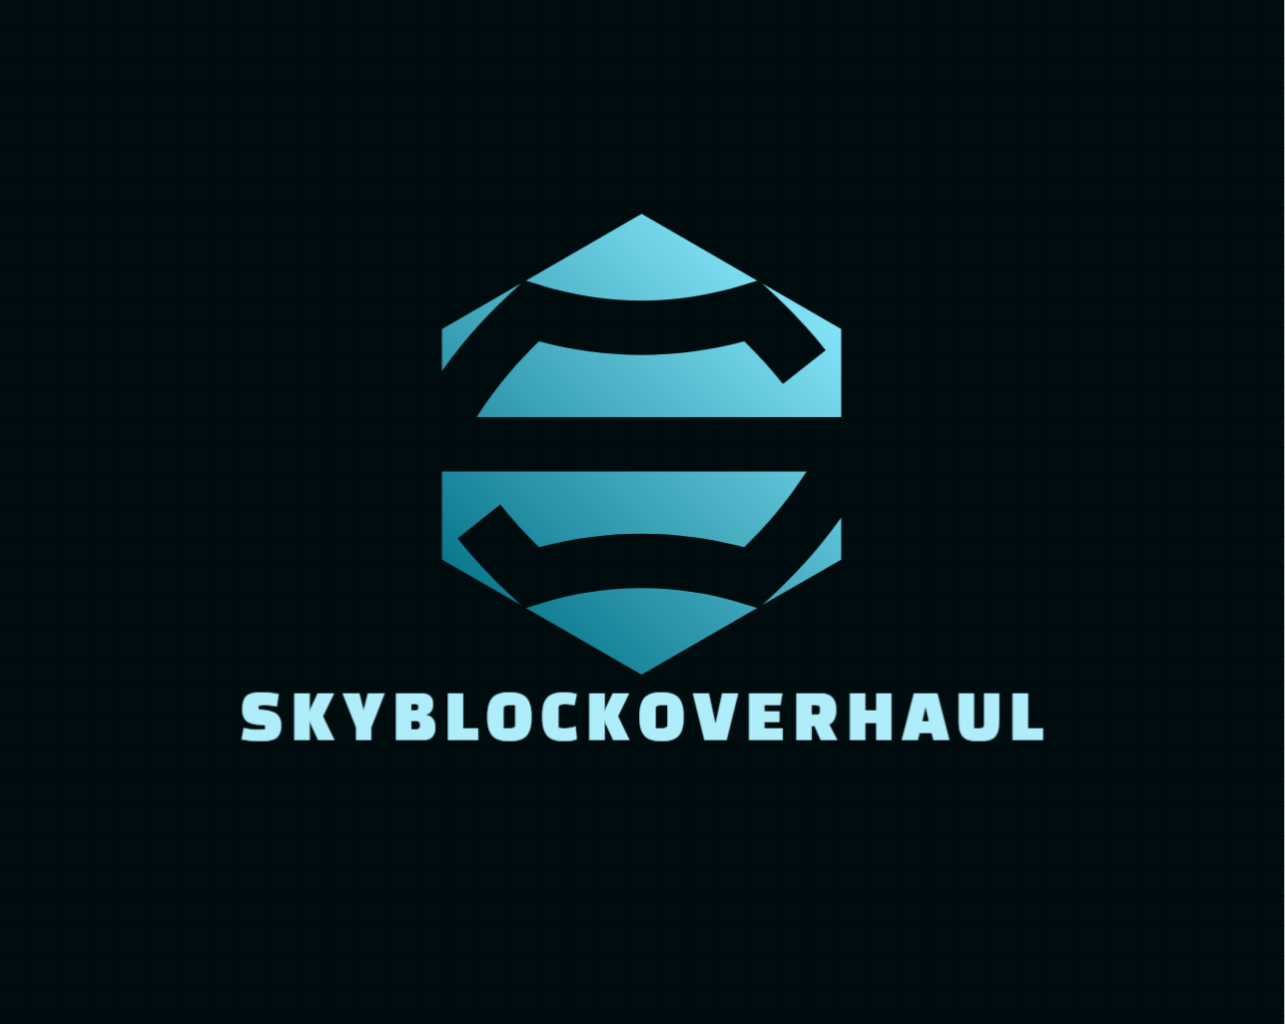
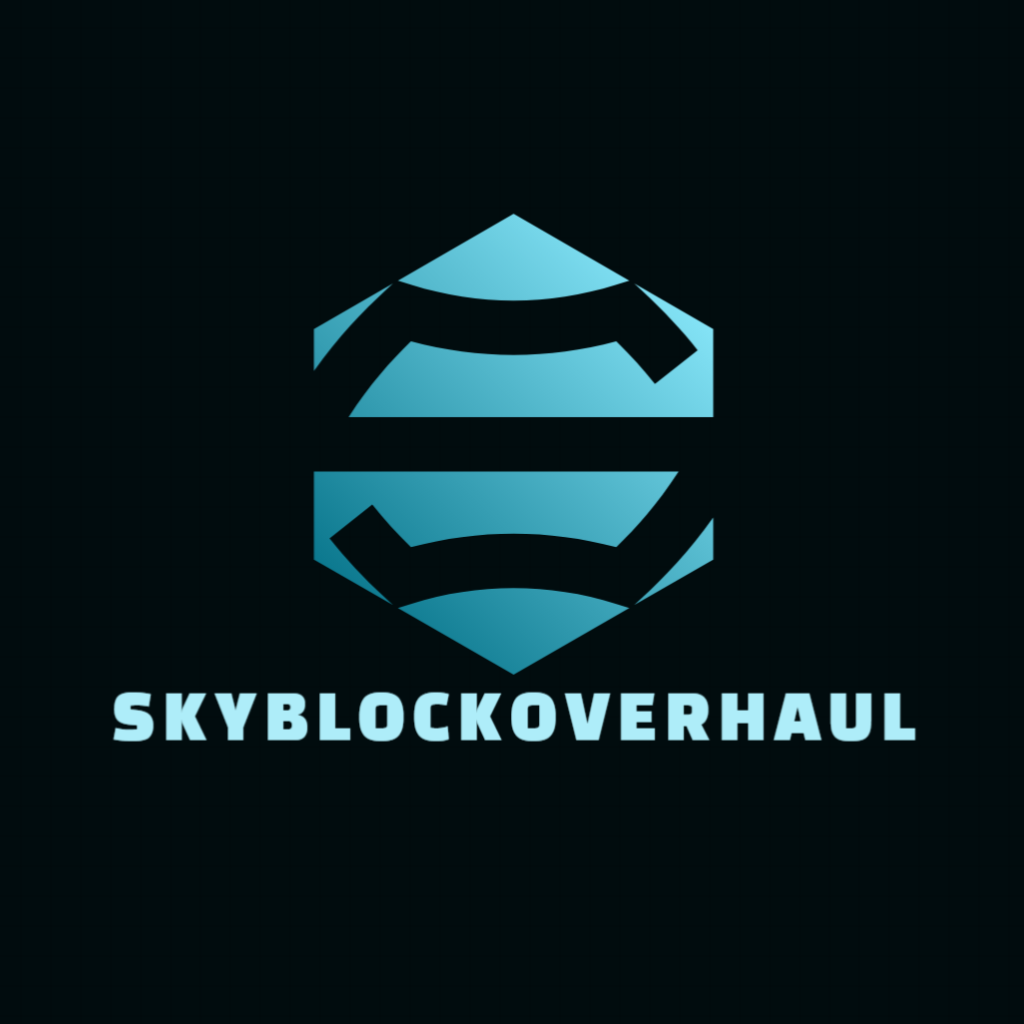
Add ModMenu integration
Introduces ModMenu support via ModMenuInterop, updates build.gradle to use version properties for dependencies, and adds ModMenu to the dependency list. Updates fabric.mod.json with ModMenu metadata and entrypoint. Improves party command user comparison logic and updates the mod icon.

diff --git a/src/main/kotlin/net/sbo/mod/general/PartyCommands.kt b/src/main/kotlin/net/sbo/mod/general/PartyCommands.kt
@@ -219,7 +219,7 @@ object PartyCommands {
                 }
                 "!stats", "!stat" -> {
                     if (!settings.dianaPartyCommands) return@onChatMessage
-                    if (secondArg == user) {
+                    if (secondArg?.lowercase() == user.lowercase()) {
                         sleep(200) {
                             DianaStats.sendPlayerStats(false)
                         }
@@ -227,7 +227,7 @@ object PartyCommands {
                 }
                 "!totalstats", "!totalstat" -> {
                     if (!settings.dianaPartyCommands) return@onChatMessage
-                    if (secondArg == user) {
+                    if (secondArg?.lowercase() == user.lowercase()) {
                         sleep(200) {
                             DianaStats.sendPlayerStats(true)
                         }

diff --git a/src/main/kotlin/net/sbo/mod/settings/ModMenuInterop.kt b/src/main/kotlin/net/sbo/mod/settings/ModMenuInterop.kt
@@ -1,0 +1,13 @@
+package net.sbo.mod.settings
+
+import com.teamresourceful.resourcefulconfig.api.client.ResourcefulConfigScreen
+import com.terraformersmc.modmenu.api.ConfigScreenFactory
+import com.terraformersmc.modmenu.api.ModMenuApi
+
+class ModMenuInterop : ModMenuApi {
+    override fun getModConfigScreenFactory(): ConfigScreenFactory<*> {
+        return ConfigScreenFactory { parent ->
+            ResourcefulConfigScreen.getFactory("sbo").apply(parent)
+        }
+    }
+}
